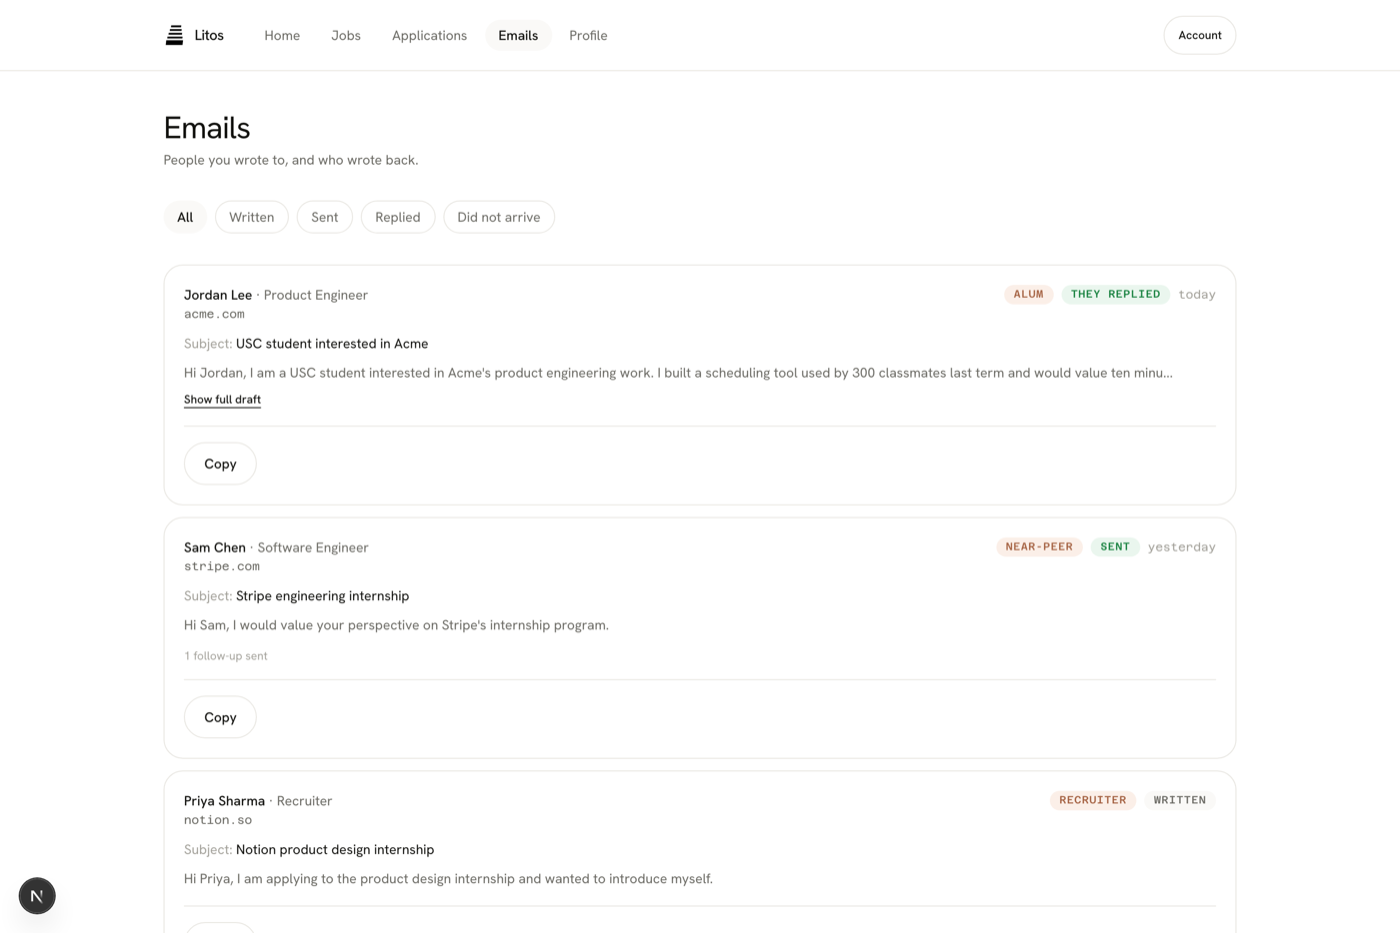
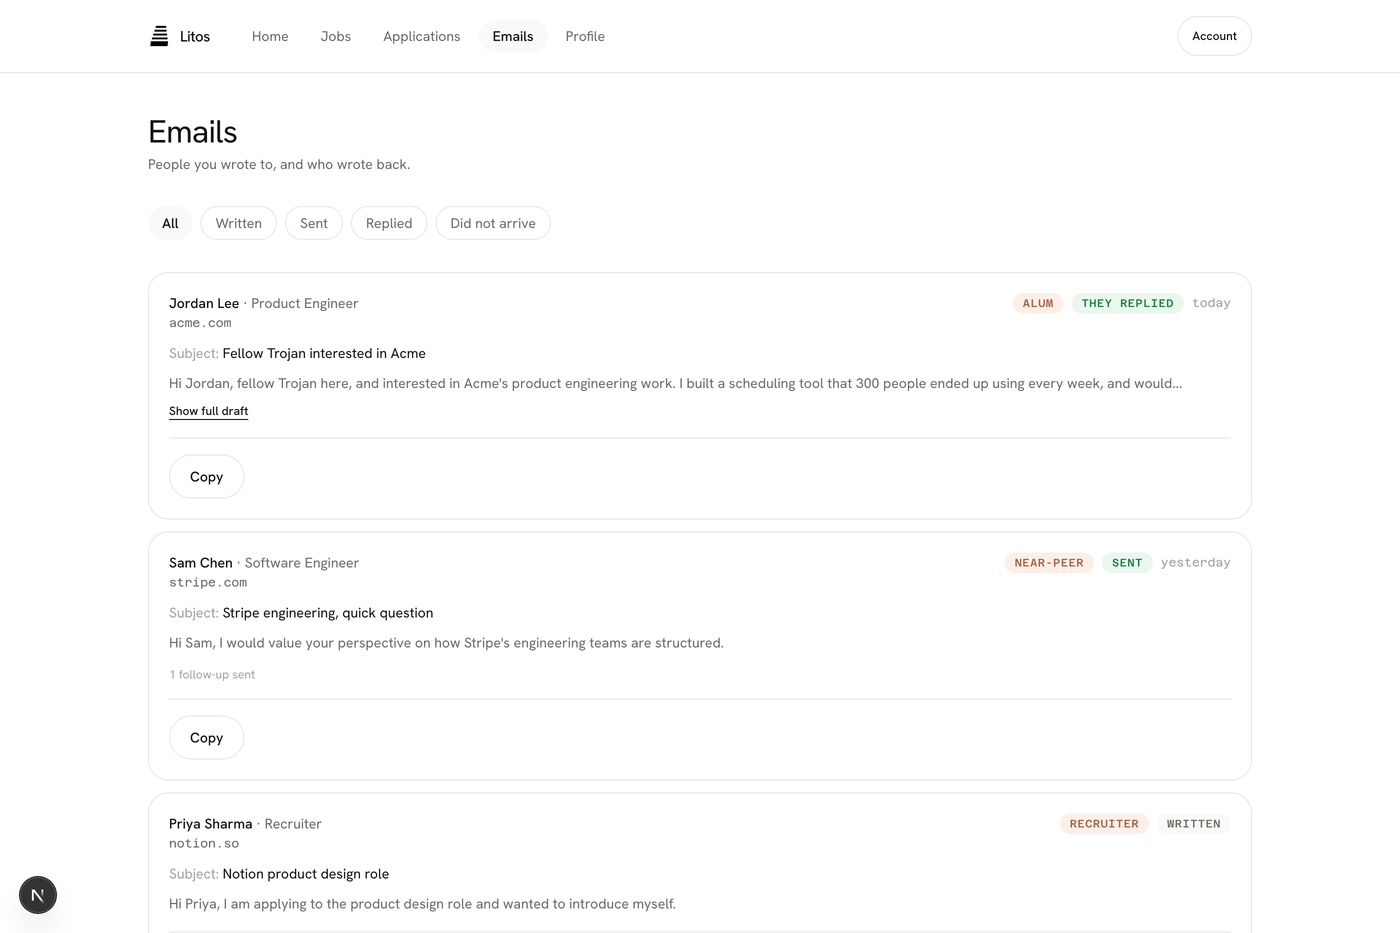
copy(litos): the public site stops calling itself a student tool
Litos serves students, but the public surfaces said it serves only
students, which told everyone else the product was not for them.

Removed the audience claims and the role-type monoculture behind them:

- the worked example (Northline posting, Greenhouse form, Notion packet)
  and the canned /try posting are open-level roles, not internships
- the application-confirmation inbox was 20 rows all ending in "Intern";
  it is now a role mix with four internships left in
- the outreach drafts drop "USC senior" and "full course load"
- the /try feed brief required intern-level postings only, so the one
  demo a visitor can actually run was student-only by construction. It
  now requires a seniority mix on every refresh
- the three real product captures were re-rendered from their own
  harnesses after their fixtures changed, and RealCaptures now declares
  the true PNG heights so nothing is silently rescaled

Kept on purpose, because they apply to students without excluding
anyone: alumni-first ranking and the Alum labels, "went to your school",
and every school, degree and graduation field. The internship and
new-grad role-type filters stay too. They are one option among
full-time and experienced, which is the honest shape of the product.

Alex Rivera's own past internship stays on his sample resume. It is his
history, not a claim about who Litos is for.

diff --git a/components/Mockups.tsx b/components/Mockups.tsx
@@ -118,27 +118,30 @@ const inboxTimes = [
   "11:43 AM", "11:42 AM", "11:41 AM", "11:40 AM", "11:39 AM",
 ];
 
+/* Role mix, not an internship list. Every row here used to end in "Intern",
+   which turned the confirmation wall into a claim about who Litos is for.
+   Keep a few internships and keep the rest open-level. */
 const inboxCompanies = [
-  { sender: "LinkedIn", company: "Northline", role: "Software Engineer Intern", pattern: "linkedin" },
+  { sender: "LinkedIn", company: "Northline", role: "Software Engineer", pattern: "linkedin" },
   { sender: "Fintra Careers", company: "Fintra", role: "Product Analyst", pattern: "interest" },
-  { sender: "Brightpath Health", company: "Brightpath", role: "Marketing Intern", pattern: "applying" },
-  { sender: "Ashworth Robotics", company: "Ashworth Robotics", role: "Backend Engineer Intern", pattern: "colon" },
+  { sender: "Brightpath Health", company: "Brightpath", role: "Marketing Associate", pattern: "applying" },
+  { sender: "Ashworth Robotics", company: "Ashworth Robotics", role: "Backend Engineer", pattern: "colon" },
   { sender: "Vela", company: "Vela", role: "Data Science Intern", pattern: "received" },
-  { sender: "Coreway Talent", company: "Coreway", role: "UX Design Intern", pattern: "linkedin" },
-  { sender: "Lumen Analytics", company: "Lumen Analytics", role: "Business Analyst Intern", pattern: "applying" },
-  { sender: "LinkedIn", company: "Parallax Systems", role: "Software Engineer Intern", pattern: "linkedin" },
+  { sender: "Coreway Talent", company: "Coreway", role: "UX Designer", pattern: "linkedin" },
+  { sender: "Lumen Analytics", company: "Lumen Analytics", role: "Business Analyst", pattern: "applying" },
+  { sender: "LinkedIn", company: "Parallax Systems", role: "Software Engineer", pattern: "linkedin" },
   { sender: "Solace Biotech", company: "Solace", role: "Research Intern", pattern: "interest" },
-  { sender: "Meridian Capital", company: "Meridian Capital", role: "Investment Banking Intern", pattern: "colon" },
-  { sender: "Driftwood Media", company: "Driftwood", role: "Content Intern", pattern: "received" },
-  { sender: "Anchorpoint Labs", company: "Anchorpoint", role: "Growth Intern", pattern: "applying" },
+  { sender: "Meridian Capital", company: "Meridian Capital", role: "Investment Banking Analyst", pattern: "colon" },
+  { sender: "Driftwood Media", company: "Driftwood", role: "Content Strategist", pattern: "received" },
+  { sender: "Anchorpoint Labs", company: "Anchorpoint", role: "Growth Marketer", pattern: "applying" },
   { sender: "LinkedIn", company: "Cascade Robotics", role: "Mechanical Engineer Intern", pattern: "linkedin" },
-  { sender: "Ionic Health", company: "Ionic Health", role: "Product Design Intern", pattern: "interest" },
-  { sender: "Westbrook Talent", company: "Westbrook", role: "Operations Intern", pattern: "colon" },
-  { sender: "Nimbus Cloud", company: "Nimbus", role: "Cloud Engineer Intern", pattern: "received" },
+  { sender: "Ionic Health", company: "Ionic Health", role: "Product Designer", pattern: "interest" },
+  { sender: "Westbrook Talent", company: "Westbrook", role: "Operations Manager", pattern: "colon" },
+  { sender: "Nimbus Cloud", company: "Nimbus", role: "Cloud Engineer", pattern: "received" },
   { sender: "Halcyon Finance", company: "Halcyon", role: "Finance Intern", pattern: "applying" },
-  { sender: "LinkedIn", company: "Rowan Dynamics", role: "Systems Engineer Intern", pattern: "linkedin" },
-  { sender: "Tidal Works", company: "Tidal Works", role: "Frontend Engineer Intern", pattern: "interest" },
-  { sender: "Brookline Ventures", company: "Brookline", role: "Venture Intern", pattern: "colon" },
+  { sender: "LinkedIn", company: "Rowan Dynamics", role: "Systems Engineer", pattern: "linkedin" },
+  { sender: "Tidal Works", company: "Tidal Works", role: "Frontend Engineer", pattern: "interest" },
+  { sender: "Brookline Ventures", company: "Brookline", role: "Venture Associate", pattern: "colon" },
 ];
 
 function buildInboxEmail(entry: (typeof inboxCompanies)[number], time: string, i: number) {
@@ -378,7 +381,7 @@ export function ApplicationFormMockup() {
         </span>
       </div>
       <p className="mt-2 text-[13px] font-semibold text-ink">
-        Software Engineer Intern · Northline
+        Software Engineer · Northline
       </p>
 
       <div className="mt-3.5 grid grid-cols-2 gap-2">
@@ -741,9 +744,9 @@ export function JobDescriptionMockup() {
         <p className="font-mono text-[11px] font-medium uppercase tracking-[0.08em] text-faint">
           Northline · Los Angeles
         </p>
-        <p className="mt-1.5 text-sm font-semibold text-ink">Software Engineer Intern</p>
+        <p className="mt-1.5 text-sm font-semibold text-ink">Software Engineer</p>
         <p className="mt-3 text-[12px] leading-6 text-muted">
-          We&apos;re looking for a Software Engineer Intern to help build{" "}
+          We&apos;re looking for a Software Engineer to help build{" "}
           <M k="distributed">distributed systems</M> that power our platform.
           Strong <M k="python">Python</M> fundamentals required.
         </p>
@@ -980,7 +983,7 @@ export function PacketMockup() {
     <div className="mx-auto w-full max-w-2xl overflow-hidden rounded-[20px] border border-border bg-surface text-left">
       <div className="flex items-baseline justify-between border-b border-border px-6 py-4">
         <span className="text-sm font-medium text-ink">
-          Software Engineer Intern <span className="font-normal text-muted">· Notion</span>
+          Software Engineer <span className="font-normal text-muted">· Notion</span>
         </span>
         <span className="font-mono text-[11px] font-medium uppercase tracking-[0.08em] text-faint">
           Application

diff --git a/app/dashboard/outreach/page.tsx b/app/dashboard/outreach/page.tsx
@@ -43,24 +43,29 @@ const PERSONA_LABELS: Record<string, string> = {
   recruiter: "Recruiter",
 };
 
+/* These fixtures are photographed: public/product/dashboard-emails.png on the
+   marketing site is this page in ?qa=1 mode. They used to read "USC student",
+   "300 classmates", and two internship subjects, so the one screenshot of the
+   dashboard announced a student-only product. Keep the alum persona and the
+   shared-school angle; keep the role wording open-level. */
 const QA_EVENTS: OutreachEvent[] = [
   {
-    id: "qa-1", channel: "gmail", subject: "USC student interested in Acme",
-    draft_text: "Hi Jordan, I am a USC student interested in Acme's product engineering work. I built a scheduling tool used by 300 classmates last term and would value ten minutes to hear how your team thinks about onboarding.",
+    id: "qa-1", channel: "gmail", subject: "Fellow Trojan interested in Acme",
+    draft_text: "Hi Jordan, fellow Trojan here, and interested in Acme's product engineering work. I built a scheduling tool that 300 people ended up using every week, and would value ten minutes to hear how your team thinks about onboarding.",
     sent_at: new Date().toISOString(), opened_at: null, replied_at: new Date().toISOString(),
     bounced: false, follow_up_count: 0, status: "replied",
     contact: { id: "c1", full_name: "Jordan Lee", title: "Product Engineer", persona: "alumni", company_domain: "acme.com" },
   },
   {
-    id: "qa-2", channel: "gmail", subject: "Stripe engineering internship",
-    draft_text: "Hi Sam, I would value your perspective on Stripe's internship program.",
+    id: "qa-2", channel: "gmail", subject: "Stripe engineering, quick question",
+    draft_text: "Hi Sam, I would value your perspective on how Stripe's engineering teams are structured.",
     sent_at: new Date(Date.now() - 86_400_000).toISOString(), opened_at: null, replied_at: null,
     bounced: false, follow_up_count: 1, status: "sent",
     contact: { id: "c2", full_name: "Sam Chen", title: "Software Engineer", persona: "near_peer", company_domain: "stripe.com" },
   },
   {
-    id: "qa-3", channel: "gmail", subject: "Notion product design internship",
-    draft_text: "Hi Priya, I am applying to the product design internship and wanted to introduce myself.",
+    id: "qa-3", channel: "gmail", subject: "Notion product design role",
+    draft_text: "Hi Priya, I am applying to the product design role and wanted to introduce myself.",
     sent_at: null, opened_at: null, replied_at: null,
     bounced: false, follow_up_count: 0, status: "drafted",
     contact: { id: "c3", full_name: "Priya Sharma", title: "Recruiter", persona: "recruiter", company_domain: "notion.so" },

diff --git a/lib/try-data.ts b/lib/try-data.ts
@@ -9,10 +9,10 @@
    any deploy. They are structured so the swap is data-only. */
 
 export const CANNED_POSTING = {
-  url: "jobs.lever.co/notion/software-engineer-intern",
+  url: "jobs.lever.co/notion/software-engineer",
   company: "Notion",
   location: "San Francisco",
-  title: "Software Engineer Intern",
+  title: "Software Engineer",
 };
 
 /* The canon artifacts, matching the film props and PacketDemo rows. */
@@ -46,14 +46,20 @@ export const CANNED_FIELDS_TOTAL = 27;
 
 export const CANNED_OUTREACH = {
   to: "Priya Nair · USC alum · Engineering",
-  subject: "USC junior applying to the SWE intern role",
-  body: "Hi Priya, I just applied to the software engineer intern role and saw you made the same USC-to-Notion jump. I've spent the last year building a CRDT-backed editor for our club portal, so Notion's sync problems are the ones I already think about for fun. Would you be open to a 15-minute chat about your first year on the team?",
-  words: 120,
+  subject: "Fellow Trojan applying to the SWE role",
+  body: "Hi Priya, I just applied to the software engineer role and saw you made the same USC-to-Notion jump. I've spent the last year building a CRDT-backed editor, so Notion's sync problems are the ones I already think about for fun. Would you be open to a 15-minute chat about your first year on the team?",
+  /* TrySimulator prints this as "~N words" on the draft the visitor is looking
+     at, so it has to be the count of the body above, not a typical-output
+     figure. It said 120 against a 60-word body before this, and a visitor who
+     counts is the person we are trying to earn trust from. */
+  words: 55,
 };
 
 /* Real-path job postings moved to the daily feed: public/try-jobs.json,
    loaded via lib/try-jobs.ts (Mehek, 2026-07-08: cycle through ~10 recent
-   big-tech intern roles that refresh daily). */
+   recognizable roles that refresh daily). The feed used to be intern-only,
+   which made the one demo a visitor can actually run read as a product for
+   students; see the brief in try-jobs.json. */
 
 export type RealPacket = {
   tailored_bullets: string[];

diff --git a/components/RealCaptures.tsx b/components/RealCaptures.tsx
@@ -11,22 +11,32 @@
    - dashboard-emails.png is app/dashboard/outreach rendered in the
      localhost QA mode (?qa=1) with its fixture data, same date.
 
+   All three were re-captured 2026-07-27 after the fixture roles were
+   changed from internships to open-level ones. Nothing about the interface
+   changed; only the fixture job titles and draft wording, which are the
+   part of these images a visitor reads as "who this is for". The extension
+   fixture lives in student-outreach-extension/preview.tsx, the dashboard
+   fixture in app/dashboard/outreach/page.tsx (QA_EVENTS). Re-render both
+   from those files rather than editing the PNGs.
+
    The data inside is fixture data (Figma, Marcus Lee, Acme). The
    *interface* is real, and that is what the caption claims and no more.
    If you swap these images, keep the caption honest about which is
    which. */
 const SHOTS = [
   {
+    /* w/h must match the PNG on disk exactly. They set the reserved
+       aspect ratio, so a stale number silently scales the capture. */
     src: "/product/extension-job.png",
     w: 598,
-    h: 900,
+    h: 913,
     alt: "The Litos extension popup on a job posting, showing the detected role, a Fill this form button, and a Find people button.",
     cap: "On a job page",
   },
   {
     src: "/product/extension-contacts.png",
     w: 598,
-    h: 900,
+    h: 913,
     alt: "The Litos contacts panel listing four people at the company, ranked by likelihood of a reply, each marked either Email checked or Email is a guess.",
     cap: "People to email",
   },

diff --git a/components/PacketDemo.tsx b/components/PacketDemo.tsx
@@ -153,7 +153,7 @@ export function PacketDemo() {
             Notion · San Francisco
           </p>
           <p className="mt-2 text-lg font-semibold tracking-tight text-ink">
-            Software Engineer Intern
+            Software Engineer
           </p>
           <div className="mt-5 space-y-2.5">
             <div className="h-1.5 w-11/12 rounded-full bg-surface-alt" />
